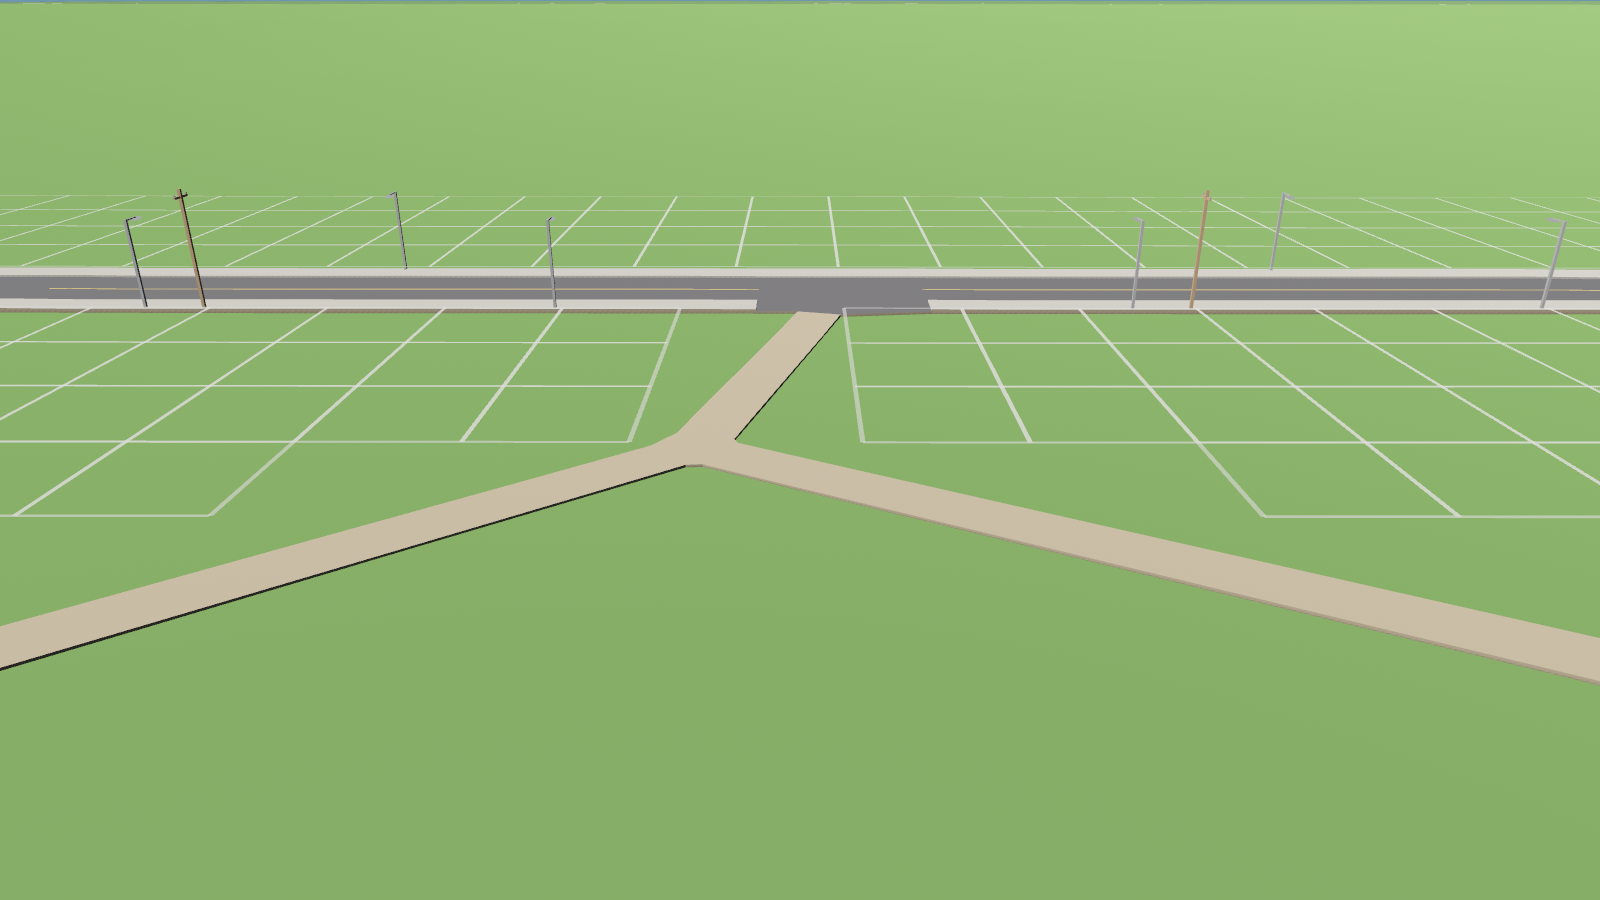
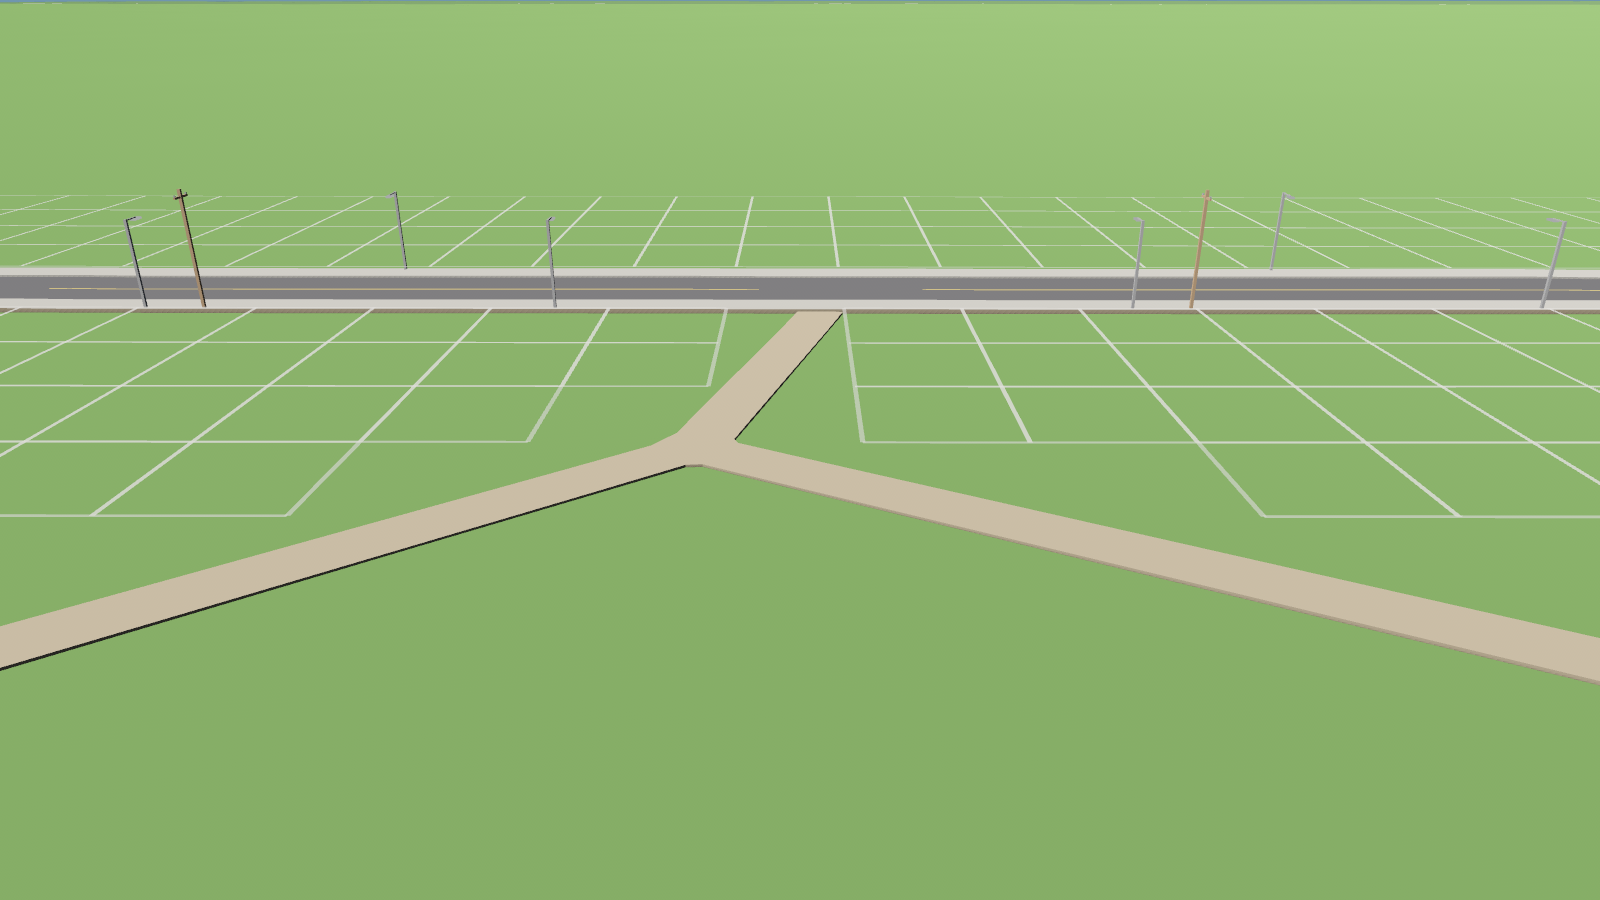
T-222: a footpath that meets a street is no junction: no polygon/setback change for the street (path arm stops at the road edge, links join the sidewalks), no auto traffic light or priority from it, zoning frontages run on past it (only cells the path crosses drop); tests; reshot screenshot

diff --git a/crates/cp_net/src/junction.rs b/crates/cp_net/src/junction.rs
@@ -151,6 +151,15 @@ impl JunctionGeometry {
     }
 }
 
+/// A footpath (T-222): every lane of the segment is a `Pedestrian` one.
+pub fn is_path_segment(graph: &NetGraph, segment: SegmentId) -> bool {
+    let Some(seg) = graph.segment(segment) else {
+        return false;
+    };
+    let mut lanes = seg.lanes.iter().filter_map(|&l| graph.lane(l)).peekable();
+    lanes.peek().is_some() && lanes.all(|l| l.kind == cp_content::LaneKind::Pedestrian)
+}
+
 fn rot_ccw(v: Vec2) -> Vec2 {
     Vec2::new(-v.y, v.x)
 }
@@ -196,6 +205,7 @@ pub fn compute_junction(graph: &NetGraph, node: NodeId, revision: u64) -> Option
         angle: f32,
         width: f32,
         length: f32,
+        path: bool,
     }
     let mut raws: Vec<Raw> = Vec::new();
     for &sid in &n.segments {
@@ -217,6 +227,7 @@ pub fn compute_junction(graph: &NetGraph, node: NodeId, revision: u64) -> Option
                 angle: dir.y.atan2(dir.x),
                 width: segment_width(graph, sid),
                 length: seg.length,
+                path: is_path_segment(graph, sid),
             });
         }
     }
@@ -227,6 +238,14 @@ pub fn compute_junction(graph: &NetGraph, node: NodeId, revision: u64) -> Option
             .then(b.at_start.cmp(&a.at_start))
     });
 
+    // T-222: a footpath that meets a road is no carriageway. It does not shape the junction
+    // polygon or the setbacks of the roads; its own end stops at the road's edge.
+    let (mut footpaths, raws): (Vec<Raw>, Vec<Raw>) = if raws.iter().any(|r| !r.path) {
+        raws.into_iter().partition(|r| r.path)
+    } else {
+        (Vec::new(), raws)
+    };
+    let edge = raws.iter().map(|r| r.width * 0.5).fold(0.0f32, f32::max);
     let k = raws.len();
     let mut arms = Vec::with_capacity(k);
     for (i, r) in raws.iter().enumerate() {
@@ -325,6 +344,32 @@ pub fn compute_junction(graph: &NetGraph, node: NodeId, revision: u64) -> Option
             out
         }
     };
+    // The polygon's arms; the footpaths join `arms` (for their trim and the pedestrian links).
+    footpaths.sort_by(|a, b| a.angle.total_cmp(&b.angle).then(a.segment.cmp(&b.segment)));
+    for r in &footpaths {
+        let h = r.width * 0.5;
+        let s = edge.min(r.length * MAX_SETBACK_FRACTION);
+        let seg = graph.segment(r.segment).expect("exists");
+        let tab = seg.curve.arc_table();
+        let along = if r.at_start { s } else { tab.length() - s };
+        let l = rot_ccw(r.dir);
+        arms.push(Arm {
+            segment: r.segment,
+            at_start: r.at_start,
+            angle: r.angle,
+            width: r.width,
+            setback: s,
+            trim_t: tab.s_to_t(along),
+            right: c + r.dir * s - l * h,
+            left: c + r.dir * s + l * h,
+        });
+    }
+    arms.sort_by(|a, b| {
+        a.angle
+            .total_cmp(&b.angle)
+            .then(a.segment.cmp(&b.segment))
+            .then(b.at_start.cmp(&a.at_start))
+    });
     let links = compute_links(graph, &arms);
     Some(Junction {
         node,

diff --git a/crates/cp_net/src/connections.rs b/crates/cp_net/src/connections.rs
@@ -393,14 +393,24 @@ fn pedestrian_links(graph: &NetGraph, arms: &[Arm]) -> Vec<PedLink> {
     let k = arms.len();
     let peds: Vec<Vec<Ped>> = arms.iter().map(|a| ped_lanes(graph, a)).collect();
     let mut out = Vec::new();
-    // Corners: arm i's most counter-clockwise sidewalk to arm i+1's most clockwise one.
-    for i in 0..k {
-        let j = (i + 1) % k;
+    // Corners: arm i's most counter-clockwise sidewalk to arm i+1's most clockwise one. A
+    // footpath (T-222) beside roads is no arm of the ring: the roads' sidewalks join each other
+    // directly, and the footpath's lanes join the sidewalks on either side of it.
+    let is_path: Vec<bool> = arms
+        .iter()
+        .map(|a| crate::junction::is_path_segment(graph, a.segment))
+        .collect();
+    let ring: Vec<usize> = if is_path.iter().all(|&p| p) {
+        (0..k).collect()
+    } else {
+        (0..k).filter(|&i| !is_path[i]).collect()
+    };
+    let mut corner = |i: usize, j: usize| {
         let (Some(a), Some(b)) = (peds[i].last(), peds[j].first()) else {
-            continue;
+            return;
         };
         if i == j && peds[i].len() < 2 {
-            continue;
+            return;
         }
         out.push(PedLink {
             kind: PedLinkKind::Corner,
@@ -408,6 +418,22 @@ fn pedestrian_links(graph: &NetGraph, arms: &[Arm]) -> Vec<PedLink> {
             b: b.id,
             curve: ped_curve(a, b),
         });
+    };
+    for (n, &i) in ring.iter().enumerate() {
+        corner(i, ring[(n + 1) % ring.len()]);
+    }
+    if ring.len() < k {
+        for i in (0..k).filter(|&i| is_path[i]) {
+            // The nearest road arm clockwise and counter-clockwise of the footpath.
+            let before = (1..k).map(|d| (i + k - d) % k).find(|&j| !is_path[j]);
+            let after = (1..k).map(|d| (i + d) % k).find(|&j| !is_path[j]);
+            if let Some(j) = before {
+                corner(j, i);
+            }
+            if let Some(j) = after {
+                corner(i, j);
+            }
+        }
     }
     // Crossings: across every arm that carries vehicles and has sidewalks on both sides.
     for i in 0..k {

diff --git a/crates/cp_net/src/junction/tests.rs b/crates/cp_net/src/junction/tests.rs
@@ -554,3 +554,37 @@ fn a_reflex_gap_under_210_degrees_with_long_setbacks_keeps_the_node_inside() {
         check_junction(&compute_junction(&g, n, 1).unwrap());
     }
 }
+
+// ---------- footpaths (T-222) ----------
+
+#[test]
+fn a_footpath_beside_a_street_makes_no_junction_polygon_and_stops_at_the_road_edge() {
+    let db = content();
+    let (g0, n0, _) = star(&db, &[(0.0, 80.0, "basic_2l"), (180.0, 80.0, "basic_2l")]);
+    let plain = compute_junction(&g0, n0, 0).unwrap();
+    let (g, n, segs) = star(
+        &db,
+        &[
+            (0.0, 80.0, "basic_2l"),
+            (180.0, 80.0, "basic_2l"),
+            (90.0, 40.0, "park_path"),
+        ],
+    );
+    let j = compute_junction(&g, n, 0).unwrap();
+    // The polygon is the street's alone: no corner points for the path.
+    assert_eq!(rel(&j), rel(&plain));
+    assert_eq!(j.arms.len(), 3);
+    let path = j.arms.iter().find(|a| a.segment == segs[2]).unwrap();
+    let half = db.road(db.road_id("basic_2l").unwrap()).width * 0.5;
+    assert!((path.setback - half).abs() < 1e-3, "{}", path.setback);
+    // The street's arms keep their setbacks.
+    for a in j.arms.iter().filter(|a| a.segment != segs[2]) {
+        let b = plain.arms.iter().find(|b| b.segment == a.segment).unwrap();
+        assert_eq!(a.setback, b.setback);
+    }
+    // Its sidewalks still join (directly, and through the path's lanes).
+    assert!(j.links.pedestrian.len() > plain.links.pedestrian.len());
+    // A footpath on its own keeps the ordinary junction.
+    let (g, n, _) = star(&db, &[(0.0, 40.0, "park_path"), (90.0, 40.0, "park_path")]);
+    assert!(compute_junction(&g, n, 0).unwrap().polygon.len() >= 4);
+}

diff --git a/crates/cp_zone/src/tests.rs b/crates/cp_zone/src/tests.rs
@@ -17,6 +17,7 @@ fn zoning(db: &ContentDb) -> impl Fn(RoadDefId) -> RoadZoning + '_ {
         RoadZoning {
             allows_zoning: d.allows_zoning,
             half_width: d.width / 2.0,
+            footpath: d.class == cp_content::RoadClass::Path,
         }
     }
 }
@@ -1596,4 +1597,27 @@ fn a_path_gets_no_zone_blocks() {
     assert!(!w.db.road(w.road("park_path")).allows_zoning);
     assert_eq!(w.grid.blocks_of(p), [None, None]);
     assert_eq!(w.grid.block_count(), 0);
+}
+
+#[test]
+fn a_footpath_meeting_a_street_is_no_cross_street() {
+    let valid = |w: &World| -> usize {
+        w.grid
+            .blocks()
+            .map(|(_, b)| b.valid.iter().filter(|v| **v).count())
+            .sum()
+    };
+    let mut plain = World::new();
+    plain.line("basic_2l", (1000.0, 1000.0), (1100.0, 1000.0));
+    plain.line("basic_2l", (1100.0, 1000.0), (1200.0, 1000.0));
+    plain.sync();
+    let mut w = World::new();
+    w.line("basic_2l", (1000.0, 1000.0), (1100.0, 1000.0));
+    w.line("basic_2l", (1100.0, 1000.0), (1200.0, 1000.0));
+    w.line("park_path", (1100.0, 1000.0), (1100.0, 1060.0));
+    w.sync();
+    // Only the cells the path itself crosses are lost, on its side: one or two columns.
+    let (a, b) = (valid(&plain), valid(&w));
+    assert!(b < a && a - b <= 8, "{a} -> {b}");
+    assert_eq!(w.grid.block_count(), plain.grid.block_count());
 }

diff --git a/crates/cp_net/src/control.rs b/crates/cp_net/src/control.rs
@@ -140,7 +140,12 @@ fn vehicle_lanes(graph: &NetGraph, seg: SegmentId) -> usize {
 
 /// The §6.5 auto-install rule for a junction.
 pub fn auto_light_rule(graph: &NetGraph, arms: &[Arm]) -> bool {
-    arms.len() >= 3
+    // A footpath is no carriageway (T-222).
+    let roads = arms
+        .iter()
+        .filter(|a| vehicle_lanes(graph, a.segment) > 0)
+        .count();
+    roads >= 3
         && arms
             .iter()
             .filter(|a| vehicle_lanes(graph, a.segment) >= BIG_ROAD_LANES)
@@ -193,7 +198,12 @@ pub fn plan_control(
 
     let priority = (0..links.connections.len())
         .map(|i| {
-            if arms.len() <= 2 {
+            if arms
+                .iter()
+                .filter(|a| vehicle_lanes(graph, a.segment) > 0)
+                .count()
+                <= 2
+            {
                 return Priority::Main;
             }
             let on_main = from_arm[i].is_some_and(|a| main_arms.contains(&a));

diff --git a/crates/cp_zone/src/layout.rs b/crates/cp_zone/src/layout.rs
@@ -162,7 +162,7 @@ fn arms_at(
             continue;
         }
         let Some(s) = net.segment(sid) else { continue };
-        if s.elevation != Elevation::Ground {
+        if s.elevation != Elevation::Ground || roads(s.road).footpath {
             continue;
         }
         for at_start in [true, false] {
@@ -417,7 +417,7 @@ fn facing_gap(
     let cos_par = PARALLEL_DEG.to_radians().cos();
     let mut best: Option<f32> = None;
     for (sid, piece) in idx.pieces_in(bounds) {
-        if own.contains(sid) {
+        if own.contains(sid) || piece.footpath {
             continue;
         }
         let e = piece.b - piece.a;

diff --git a/crates/cp_zone/src/roads.rs b/crates/cp_zone/src/roads.rs
@@ -35,6 +35,7 @@ pub(crate) struct RoadPiece {
     pub a: Vec2,
     pub b: Vec2,
     pub half_width: f32,
+    pub footpath: bool,
 }
 
 #[derive(Clone, Debug, Default)]
@@ -70,6 +71,7 @@ impl RoadIndex {
                 a: w[0],
                 b: w[1],
                 half_width: road.half_width,
+                footpath: road.footpath,
             };
             let b = inflate((w[0].min(w[1]), w[0].max(w[1])), road.half_width);
             for key in bucket_range(b, ROAD_BUCKET) {

diff --git a/crates/cp_zone/src/grid.rs b/crates/cp_zone/src/grid.rs
@@ -134,6 +134,9 @@ pub struct RoadZoning {
     pub allows_zoning: bool,
     /// Half the profile width, metres.
     pub half_width: f32,
+    /// A pedestrian path (T-222): it is no cross street. A street's frontage runs on past
+    /// it; only the cells the path itself crosses are dropped.
+    pub footpath: bool,
 }
 
 #[derive(Clone, Debug, PartialEq, Serialize, Deserialize)]

diff --git a/crates/cp_building/src/free_tests.rs b/crates/cp_building/src/free_tests.rs
@@ -297,6 +297,7 @@ fn a_lot_cell_held_by_a_building_blocks_even_without_a_listed_building() {
         RoadZoning {
             allows_zoning: d.allows_zoning,
             half_width: d.width / 2.0,
+            footpath: d.class == cp_content::RoadClass::Path,
         }
     });
     let (block, _) = f.zones.blocks().next().unwrap();

diff --git a/crates/cp_building/src/treatment_tests.rs b/crates/cp_building/src/treatment_tests.rs
@@ -59,6 +59,7 @@ fn the_plant_is_placed_on_land_beside_the_road_and_told_water_on_a_pond() {
         RoadZoning {
             allows_zoning: d.allows_zoning,
             half_width: d.width / 2.0,
+            footpath: d.class == cp_content::RoadClass::Path,
         }
     });
     let tiles = TileOwnership::m1_around((2, 2));

diff --git a/crates/cp_tools/src/zone_preview.rs b/crates/cp_tools/src/zone_preview.rs
@@ -48,6 +48,7 @@ fn zoning(db: &ContentDb) -> impl Fn(cp_content::RoadDefId) -> RoadZoning + '_ {
         RoadZoning {
             allows_zoning: d.allows_zoning,
             half_width: d.width / 2.0,
+            footpath: d.class == cp_content::RoadClass::Path,
         }
     }
 }

diff --git a/crates/cp_tools/src/zone.rs b/crates/cp_tools/src/zone.rs
@@ -239,6 +239,7 @@ mod tests {
             RoadZoning {
                 allows_zoning: d.allows_zoning,
                 half_width: d.width / 2.0,
+                footpath: d.class == cp_content::RoadClass::Path,
             }
         });
         z
